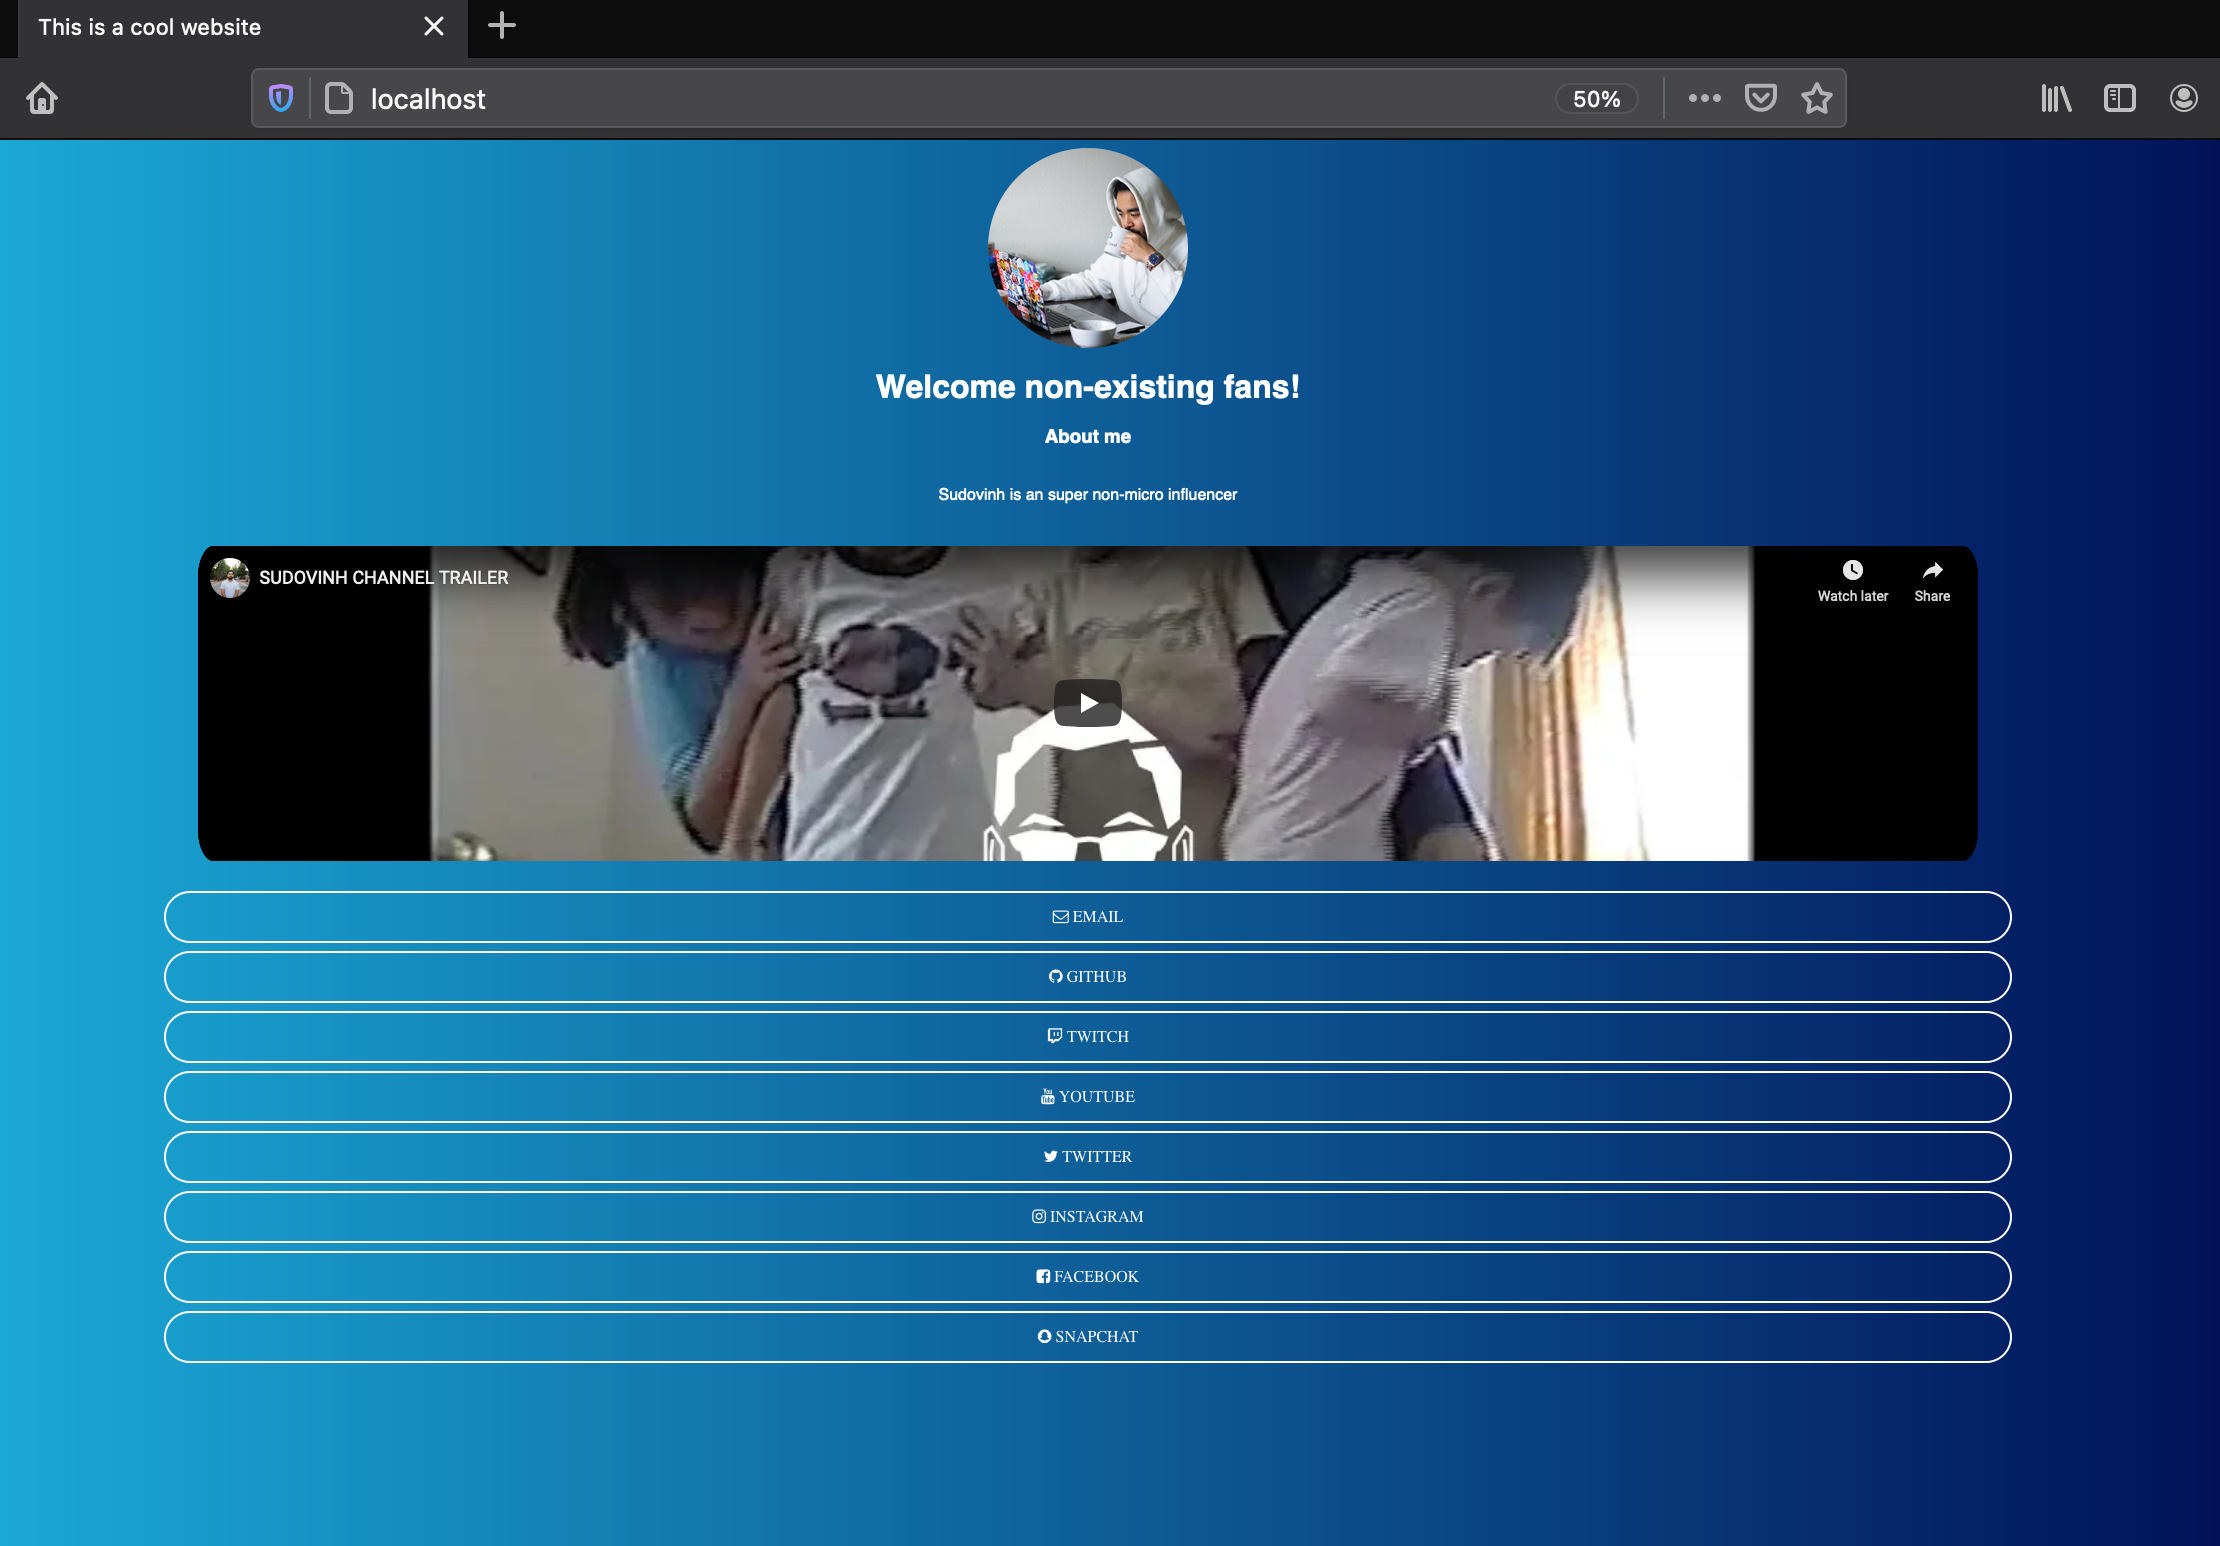
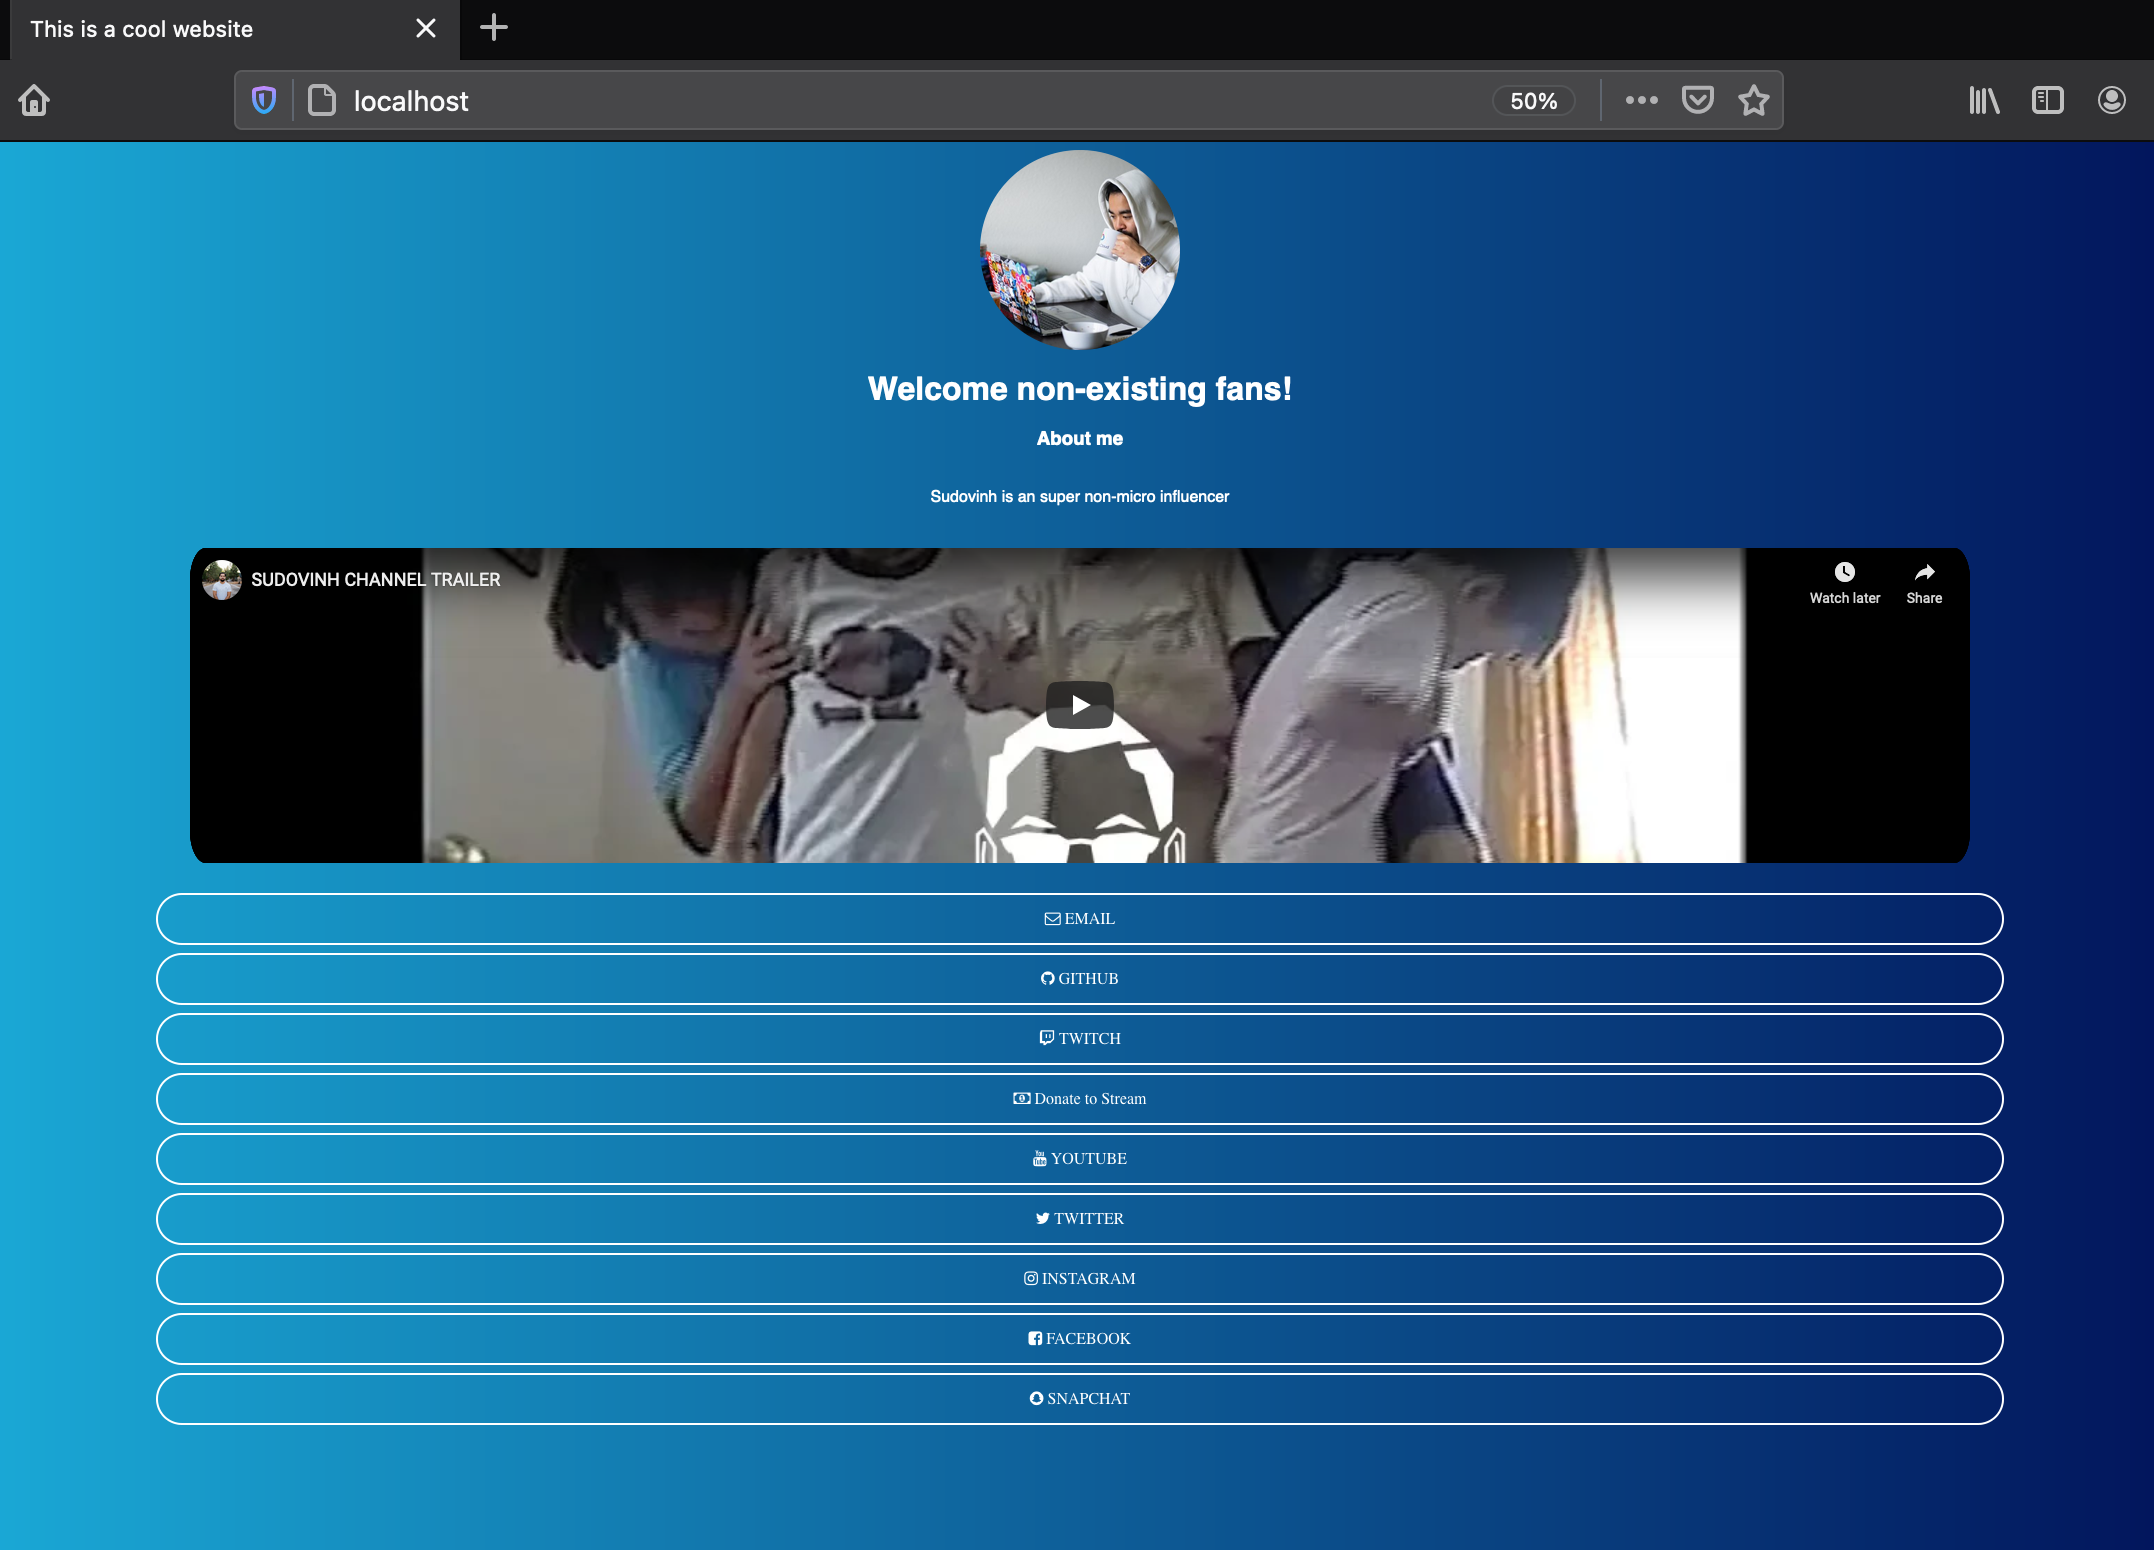
add extra button feature

diff --git a/src/index.html b/src/index.html
@@ -24,6 +24,7 @@
           ENV_EMAIL_BUTTON
           ENV_GITHUB_BUTTON
           ENV_TWITCH_BUTTON
+          ENV_EXTRA_BUTTON
           ENV_YOUTUBE_BUTTON
           ENV_TWITTER_BUTTON
           ENV_INSTAGRAM_BUTTON

diff --git a/README.md b/README.md
@@ -24,6 +24,9 @@ social landing page:
 | ABOUT_ME | A about me section | `none` | ABOUT_ME="This is an awesome website with awesome things."
 | PROFILE_IMG_URL | A profile image above the sub title | `none` | PROFILE_IMG_URL="https://pbs.twimg.com/profile_images/1274630142405427200/ethb5B1m_400x400.jpg"
 | TWITCH_URL | Twitch profile url | `none` | TWITCH_URL="https://www.twitch.tv/psychopoptart"
+| EXTRA_BUTTON_NAME | Extra button name | `none` | EXTRA_BUTTON_NAME="Stream Donation"
+| EXTRA_FONT_ICON | Extra css font icon. https://fontawesome.com/v4.7/icons/ ex. "fa-money" | `none` | EXTRA_FONT_ICON="fa-money"
+| EXTRA_URL | Extra button url | `none` | EXTRA_URL="https://streamlabs.com/psychopoptart1"
 | YOUTUBE_VIDEO_URL | A embed youtube video above the links button | `https://www.youtube.com/embed/VYOjWnS4cMY` | YOUTUBE_VIDEO_URL="https://www.youtube.com/embed/VYOjWnS4cMY"
 | YOUTUBE_URL | Youtube profile button url | `none` | YOUTUBE_URL="https://www.youtube.com/channel/UC20LoHy2mX0LQODrkUalxVQ"
 | TWITTER_URL | Twitter profile button url | `none` | TWITTER_URL="https://www.twitter.com/iamcool" 
@@ -50,6 +53,9 @@ docker run --rm -d -p 80:80 \
 -e FAVICON_IMG_URL='https://github.com/sudovinh/docker-social-landing-page/blob/main/src/images/sudovinh/sv-512.png' \
 -e ABOUT_ME='Sudovinh is an super non-micro influencer' \
 -e PROFILE_IMG_URL='https://pbs.twimg.com/profile_images/1274630142405427200/ethb5B1m_400x400.jpg' \
+-e EXTRA_BUTTON_NAME='Donate to Stream' \
+-e EXTRA_FONT_ICON='fa-money' \
+-e EXTRA_URL='https://streamlabs.com/psychopoptart1/tip' \
 -e TWITCH_URL='https://www.twitch.tv/psychopoptart' \
 -e YOUTUBE_VIDEO_URL='https://www.youtube.com/embed/7zil-zsn-a4?autoplay=1&mute=1' \
 -e YOUTUBE_URL='https://www.youtube.com/channel/UCdupcYF7zU4SlK7S1sI1vvQ' \
